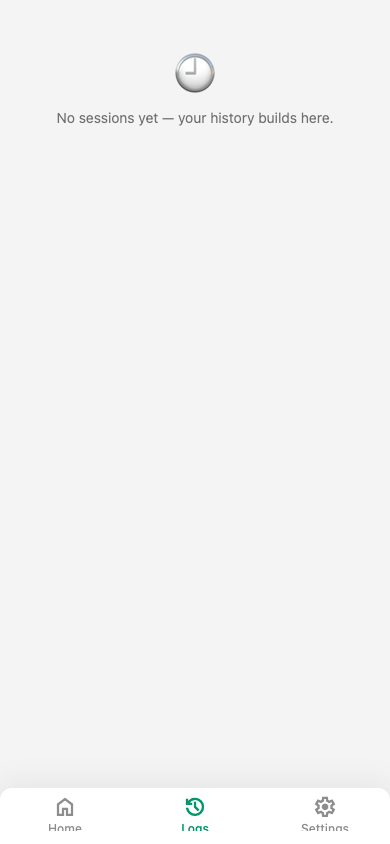
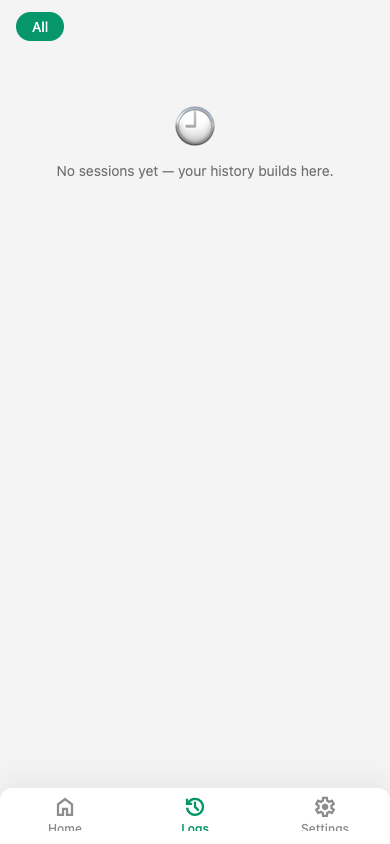
Deepen the chips: one ChipRow for every pill row
Logs' category filters, Home's quick-category row, and Settings'
language picker were three hand-rolled pill renderers with diverging
guards (the class that bred the arity bug, since fixed at the call
site). ChipRow owns the shape: empty options renders nothing, selection
is an opaque predicate, labels map through labelOf, ripples and
accessibility roles/states come free. WeekdayPicker keeps its three
variants (wrap/segmented/setup) — its value shape and sizing are its
own concern. Runtime sanity clean.

diff --git a/app/(tabs)/logs.tsx b/app/(tabs)/logs.tsx
@@ -11,6 +11,7 @@ import { categorySuggestions } from '@/engine/sessions';
 import { useI18n } from '@/ui/i18n';
 import { logsModel, type LogDay, type LogWeek } from '@/engine/logs';
 import type { Session } from '@/engine/types';
+import { ChipRow } from '@/components/ChipRow';
 import { cardStyle, RADIUS, useTheme } from '@/theme';
 
 /** One virtualized row: a week's summary card, a day header, a session card, or a collapsed week. */
@@ -199,26 +200,14 @@ export default function LogsScreen() {
 
   return (
     <View style={{ flex: 1, backgroundColor: theme.canvas }}>
-      {suggestions.length > 0 && (
-        <View style={[styles.filterRow, { paddingTop: insets.top + 12 }]}>
-          <Pressable
-            style={[styles.filterChip, categoryFilter === null && { backgroundColor: theme.accent }]}
-            onPress={() => setCategoryFilter(null)}>
-            <Text style={[styles.filterText, { color: categoryFilter === null ? theme.onAccent : theme.text }]}>{t('all')}</Text>
-          </Pressable>
-          {suggestions.map((chip) => {
-            const active = categoryFilter === chip;
-            return (
-              <Pressable
-                key={chip}
-                style={[styles.filterChip, { backgroundColor: theme.inset }, active && { backgroundColor: theme.accent }]}
-                onPress={() => setCategoryFilter(active ? null : chip)}>
-                <Text style={[styles.filterText, { color: active ? theme.onAccent : theme.text }]}>{chip}</Text>
-              </Pressable>
-            );
-          })}
-        </View>
-      )}
+      <View style={[styles.filterRow, { paddingTop: insets.top + 12 }]}>
+        <ChipRow
+          accessibilityLabel={t('tabLogs')}
+          options={[t('all'), ...suggestions]}
+          isSelected={(option) => (categoryFilter === null ? option === t('all') : option === categoryFilter)}
+          onSelect={(option) => setCategoryFilter(option === t('all') ? null : option)}
+        />
+      </View>
 
       <FlatList
         data={rows}
@@ -271,20 +260,8 @@ const styles = StyleSheet.create({
     fontSize: 40,
   },
   filterRow: {
-    flexDirection: 'row',
-    flexWrap: 'nowrap',
-    gap: 12,
     paddingHorizontal: 16,
     paddingBottom: 12,
-  },
-  filterChip: {
-    paddingVertical: 8,
-    paddingHorizontal: 16,
-    borderRadius: RADIUS.pill,
-  },
-  filterText: {
-    fontSize: 12,
-    fontWeight: '500',
   },
   weekCard: {
     borderRadius: RADIUS.card,

diff --git a/src/components/ChipRow.tsx b/src/components/ChipRow.tsx
@@ -1,0 +1,79 @@
+import { Pressable, StyleSheet, Text, View } from 'react-native';
+
+import { RADIUS, useTheme } from '@/theme';
+
+/**
+ * One row of selectable chips. Empty options renders nothing — call sites never
+ * guard. `multi` toggles set-select; the selection shape picks the mode, so a
+ * single `selected` accessor keeps the interface small.
+ */
+export function ChipRow({
+  options,
+  isSelected,
+  onSelect,
+  labelOf,
+  size = 'md',
+  accessibilityLabel,
+}: {
+  options: readonly string[];
+  /** Opaque predicate per option — callers own the selection shape. */
+  isSelected: (option: string) => boolean;
+  /** Toggle semantics belong to the caller; ChipRow just reports the tap. */
+  onSelect: (option: string) => void;
+  /** Display text per option; defaults to the option itself. */
+  labelOf?: (option: string) => string;
+  size?: 'md' | 'lg';
+  /** Optional row label for screen readers. */
+  accessibilityLabel?: string;
+}) {
+  const theme = useTheme();
+  if (options.length === 0) return null;
+  return (
+    <View style={styles.row} accessibilityRole="tablist" accessibilityLabel={accessibilityLabel}>
+      {options.map((option) => {
+        const active = isSelected(option);
+        return (
+          <Pressable
+            key={option}
+            accessibilityRole="button"
+            accessibilityState={{ selected: active }}
+            android_ripple={{ color: theme.muted, borderless: false }}
+            style={[
+              styles.chip,
+              size === 'lg' && styles.chipLg,
+              { backgroundColor: active ? theme.accent : theme.inset },
+            ]}
+            onPress={() => onSelect(option)}>
+            <Text style={[styles.text, size === 'lg' && styles.textLg, { color: active ? theme.onAccent : theme.text }]}>
+              {labelOf ? labelOf(option) : option}
+            </Text>
+          </Pressable>
+        );
+      })}
+    </View>
+  );
+}
+
+
+const styles = StyleSheet.create({
+  row: {
+    flexDirection: 'row',
+    flexWrap: 'wrap',
+    gap: 8,
+  },
+  chip: {
+    paddingVertical: 6,
+    paddingHorizontal: 16,
+    borderRadius: RADIUS.pill,
+  },
+  chipLg: {
+    paddingVertical: 8,
+    paddingHorizontal: 20,
+  },
+  text: {
+    fontSize: 14,
+  },
+  textLg: {
+    fontSize: 14,
+  },
+});

diff --git a/app/(tabs)/settings.tsx b/app/(tabs)/settings.tsx
@@ -3,6 +3,7 @@ import { useSafeAreaInsets } from 'react-native-safe-area-context';
 import { useCallback, useEffect } from 'react';
 import { Pressable, ScrollView, StyleSheet, Text, TextInput, View } from 'react-native';
 
+import { ChipRow } from '@/components/ChipRow';
 import { WeekdayPicker, useValidatedHours } from '@/components/settings-entry';
 import { useLogbook } from '@/hooks/useLogbook';
 import { blockRangeLabel } from '@/engine/schedule';
@@ -134,23 +135,14 @@ export default function SettingsScreen() {
 
       <Text style={[styles.sectionTitle, { color: theme.muted }]}>{t('language')}</Text>
       <View style={[styles.card, cardStyle(theme)]}>
-        <View style={{ flexDirection: 'row', flexWrap: 'wrap', gap: 8 }}>
-          {(['system', 'en', 'bn'] as LanguageSetting[]).map((option) => {
-            const active = settings.language === option;
-            const label = option === 'system' ? t('system') : option === 'en' ? 'English' : 'বাংলা';
-            return (
-              <Pressable
-                key={option}
-                android_ripple={{ color: theme.muted, borderless: false }}
-                accessibilityRole="button"
-                accessibilityState={{ selected: active }}
-                style={({ pressed }) => [styles.pill, pressed && styles.pressed, { backgroundColor: active ? theme.accent : theme.inset }]}
-                onPress={() => saveSettings({ language: option })}>
-                <Text style={{ fontSize: 14, color: active ? theme.onAccent : theme.text }}>{label}</Text>
-              </Pressable>
-            );
-          })}
-        </View>
+        <ChipRow
+          size="lg"
+          accessibilityLabel={t('language')}
+          options={['system', 'en', 'bn']}
+          isSelected={(option) => settings.language === option}
+          onSelect={(option) => saveSettings({ language: option as LanguageSetting })}
+          labelOf={(option) => (option === 'system' ? t('system') : option === 'en' ? 'English' : 'বাংলা')}
+        />
       </View>
 
     </ScrollView>

diff --git a/src/components/HomeBanners.tsx b/src/components/HomeBanners.tsx
@@ -6,6 +6,7 @@ import { useLogbook } from '@/hooks/useLogbook';
 import { isBackupDue } from '@/engine/backup';
 import { blockOccurring } from '@/engine/schedule';
 import { useI18n } from '@/ui/i18n';
+import { ChipRow } from '@/components/ChipRow';
 import { cardStyle, RADIUS, useTheme } from '@/theme';
 
 /** The stale-export nudge; dismissable until the next launch. */
@@ -80,15 +81,8 @@ export function QuickCategoryRow({
   const theme = useTheme();
   return (
     <View style={styles.chipRow}>
-      {categories.map((category) => (
-        <Pressable
-          key={category}
-          style={[styles.chip, { backgroundColor: theme.accentSoft }]}
-          onPress={() => onPick(category)}>
-          <Text style={[styles.chipText, { color: theme.accent }]}>{category}</Text>
-        </Pressable>
-      ))}
-      <Pressable onPress={onMore}>
+      <ChipRow options={categories} isSelected={() => false} onSelect={onPick} />
+      <Pressable hitSlop={{ top: 8, bottom: 8, left: 8, right: 8 }} onPress={onMore}>
         <Text style={[styles.more, { color: theme.muted }]}>…</Text>
       </Pressable>
     </View>
@@ -133,15 +127,6 @@ const styles = StyleSheet.create({
     alignItems: 'center',
     justifyContent: 'center',
     gap: 8,
-  },
-  chip: {
-    paddingVertical: 6,
-    paddingHorizontal: 16,
-    borderRadius: RADIUS.pill,
-  },
-  chipText: {
-    fontSize: 14,
-    fontWeight: '500',
   },
   more: {
     fontSize: 16,
